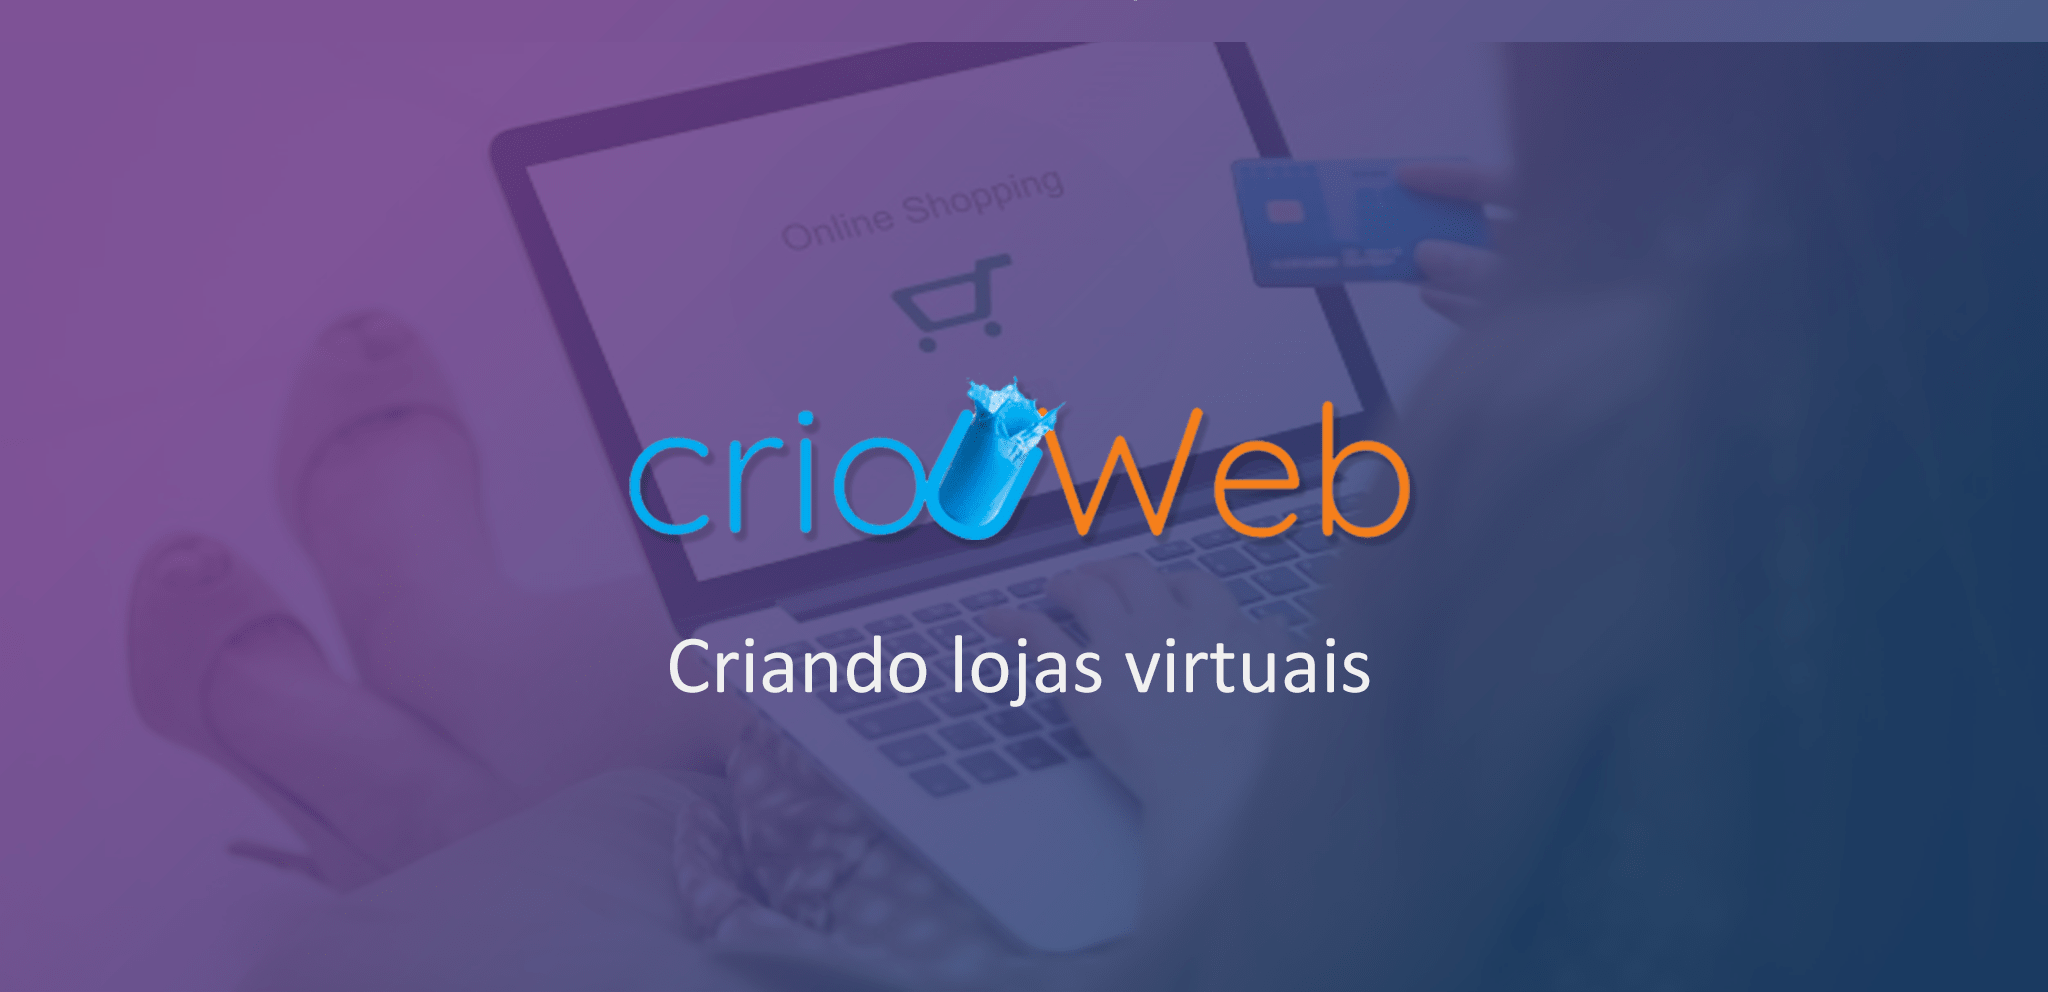
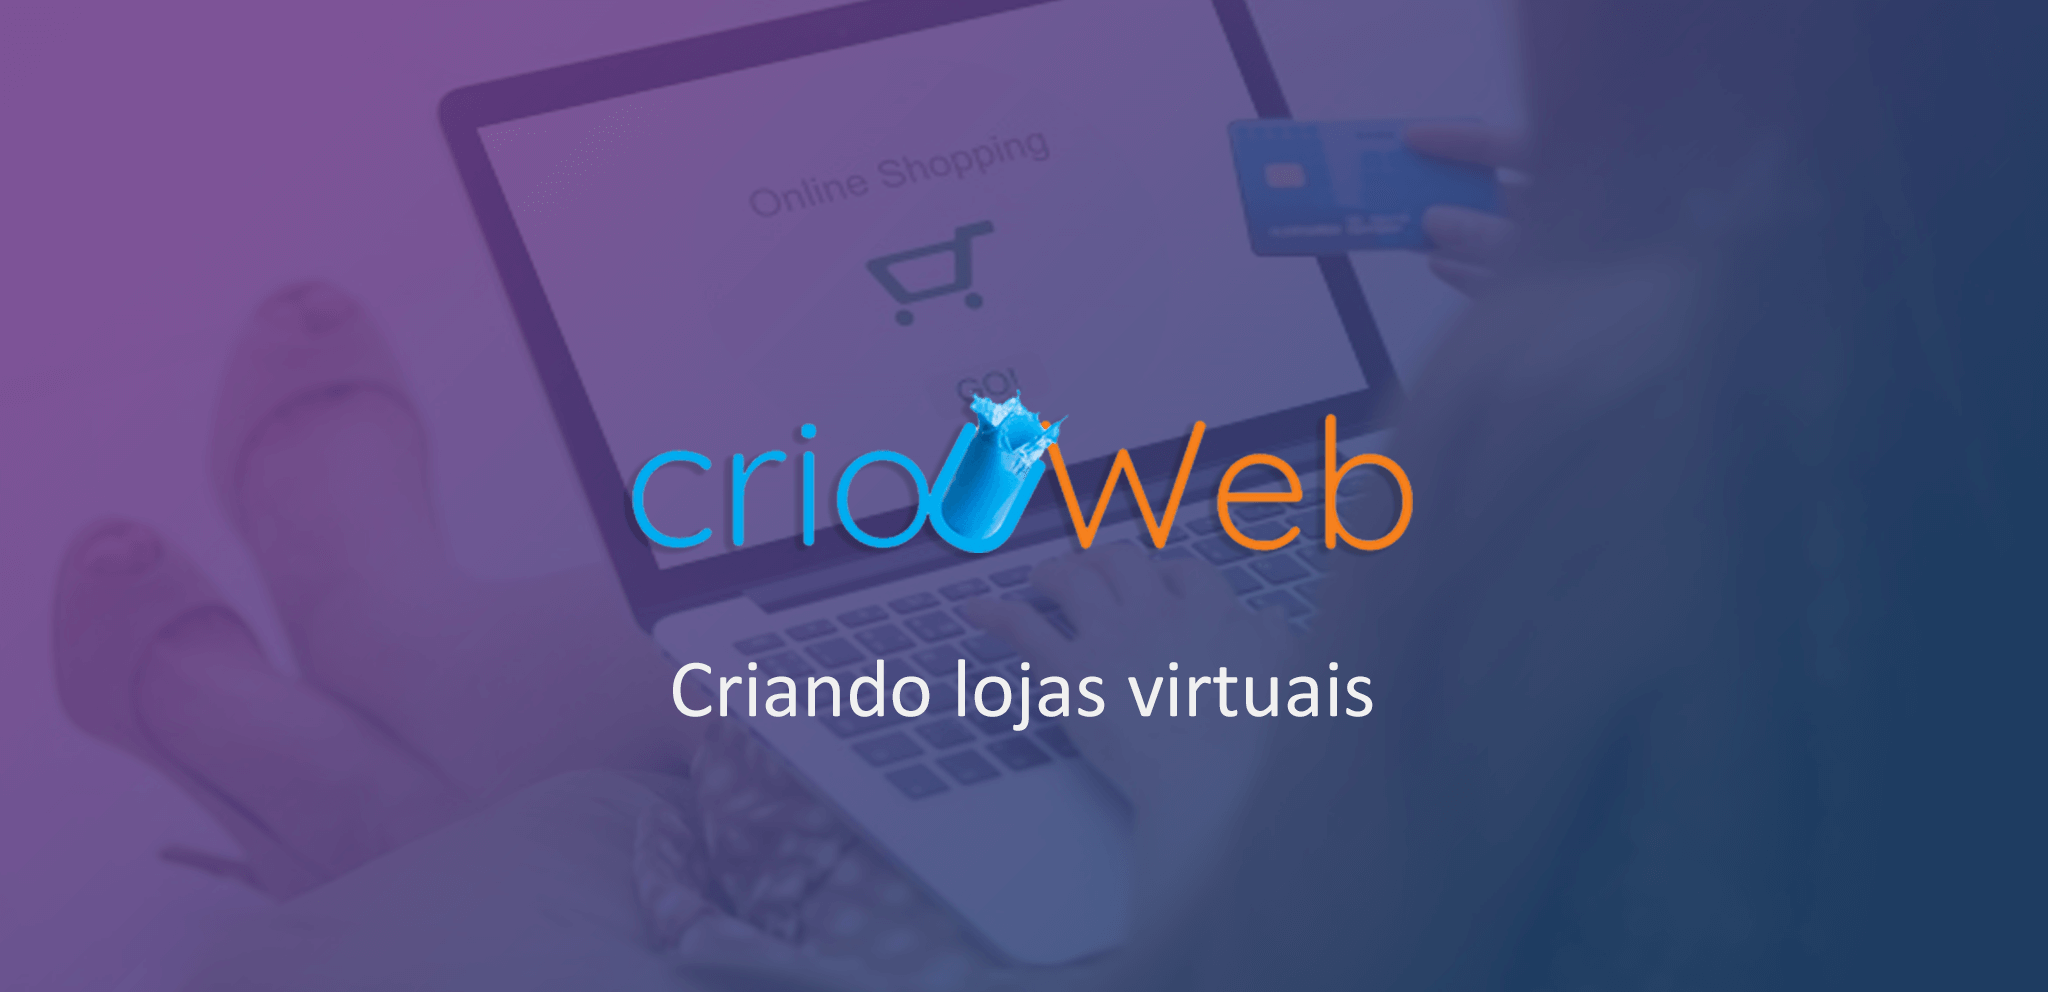
Modificação de imagens

diff --git a/index.html b/index.html
@@ -45,13 +45,13 @@
     <div id="carouselNav" class="carousel slide" data-pause="false" data-ride="carousel">
       <div class="carousel-inner">
         <div class="carousel-item active">
-          <img class="d-block w-100 fullWidthSlide" src="assets/baner_criouweb.png" alt="First slide">
+          <img class="d-block w-100 fullWidthSlide" src="assets/banner_criouweb.png" alt="First slide">
         </div>
         <div class="carousel-item">
           <img class="d-block w-100 fullWidthSlide" src="assets/banner_lojavirtual.png" alt="Second slide">
         </div>
         <div class="carousel-item">
-          <img class="d-block w-100 fullWidthSlide" src="assets/banner_sistema.png" alt="Third slide">
+          <img class="d-block w-100 fullWidthSlide" src="assets/banner_aplicativosweb.png" alt="Third slide">
         </div>
         <div class="carousel-item">
           <img class="d-block w-100 fullWidthSlide" src="assets/banner_sites.png" alt="Third slide">
@@ -219,7 +219,8 @@
         </div>
     </div>
   </div>
- <div class="bg-dark footer">
+  
+ <div class="bg-dark footer d-none d-lg-block d-xl-block">
         <div class="container">
           <div class="row">
             <div class="col-md-4">
@@ -246,30 +247,58 @@
           </div>
         </div>
       </div>
+      
+      <div class="bg-dark footer d-block d-lg-none">
+        <div class="container">
+          <div class="row">
+            <div class="col-md-4">
+              <h6 class="text-white">Endereço</h6>
+              <p class="text-white">
+                <i class="fa fa-map-marker" aria-hidden="true"></i> Rua Tenente Sylvio Fleming, Nº191 CEP 02935-090 São Paulo-SP
+              </p>
+            </div>
+            <div class="col-md-4">
+              <h6 class="text-white">Social</h6>
+              <a class="text-white" href=""><i class="fa fa-facebook-square socialIcons" aria-hidden="true"></i></a>
+            </div>
+            <div class="col-md-4">
+              <h6 class="text-white">Contato</h6>
+              <p class="text-white">
+                <i class="fa fa-phone-square" aria-hidden="true"></i> (11) 4111-7056
+                <br>
+                <i class="fa fa-whatsapp" aria-hidden="true"></i> (11)9 4968-3460
+                <br>
+                <i class="fa fa-whatsapp" aria-hidden="true"></i> (11)9 8016-1318
+              </p>
+              
+            </div>
+          </div>
+        </div>
+      </div>
   
   
   <div class="modal" id="modalMenu" tabindex="-1" role="dialog" aria-labelledby="exampleModalLabel" aria-hidden="true">
     <div class="modal-dialog modalMenu" role="document">
-      <div class="modal-content">
+      <div class="modal-content modalMenuContent text-white">
         <div class="modal-header modalMenuHeader">
           <h5 class="modal-title">&lt;Criou web/&gt;</h5>
           <button type="button" class="close" data-dismiss="modal" aria-label="Close">
-            <span aria-hidden="true">&times;</span>
+            <i class="fa fa-times font-weight-bold text-white" aria-hidden="true"></i>
           </button>
         </div>
         <div class="modal-body">
           <ul class="navbar-nav text-center">
             <li class="nav-item">
-              <a class="nav-link" href="#">Serviços</a>
+              <a class="nav-link text-white" href="#">Serviços</a>
             </li>
             <li class="nav-item">
-              <a class="nav-link" href="#">Sobre</a>
+              <a class="nav-link text-white" href="#">Sobre</a>
             </li>
             <li class="nav-item">
-              <a class="nav-link" href="#">Portfolio</a>
+              <a class="nav-link text-white" href="#">Portfolio</a>
             </li>
             <li class="nav-item">
-              <a class="nav-link" href="#">Contato</a>
+              <a class="nav-link text-white" href="#">Contato</a>
             </li>
           </ul>
         </div>

diff --git a/css/main.css b/css/main.css
@@ -93,9 +93,15 @@ body{
   width: 100%;
   margin: 0;
   padding: 0;
+  max-width: 100%;
 }
 .modalMenuHeader{
   border: none;
+}
+.modalMenuContent{
+  border:none;
+  border-radius:0;
+  background-image: url('../assets/banner_criouweb.png');
 }
 /**/
 
